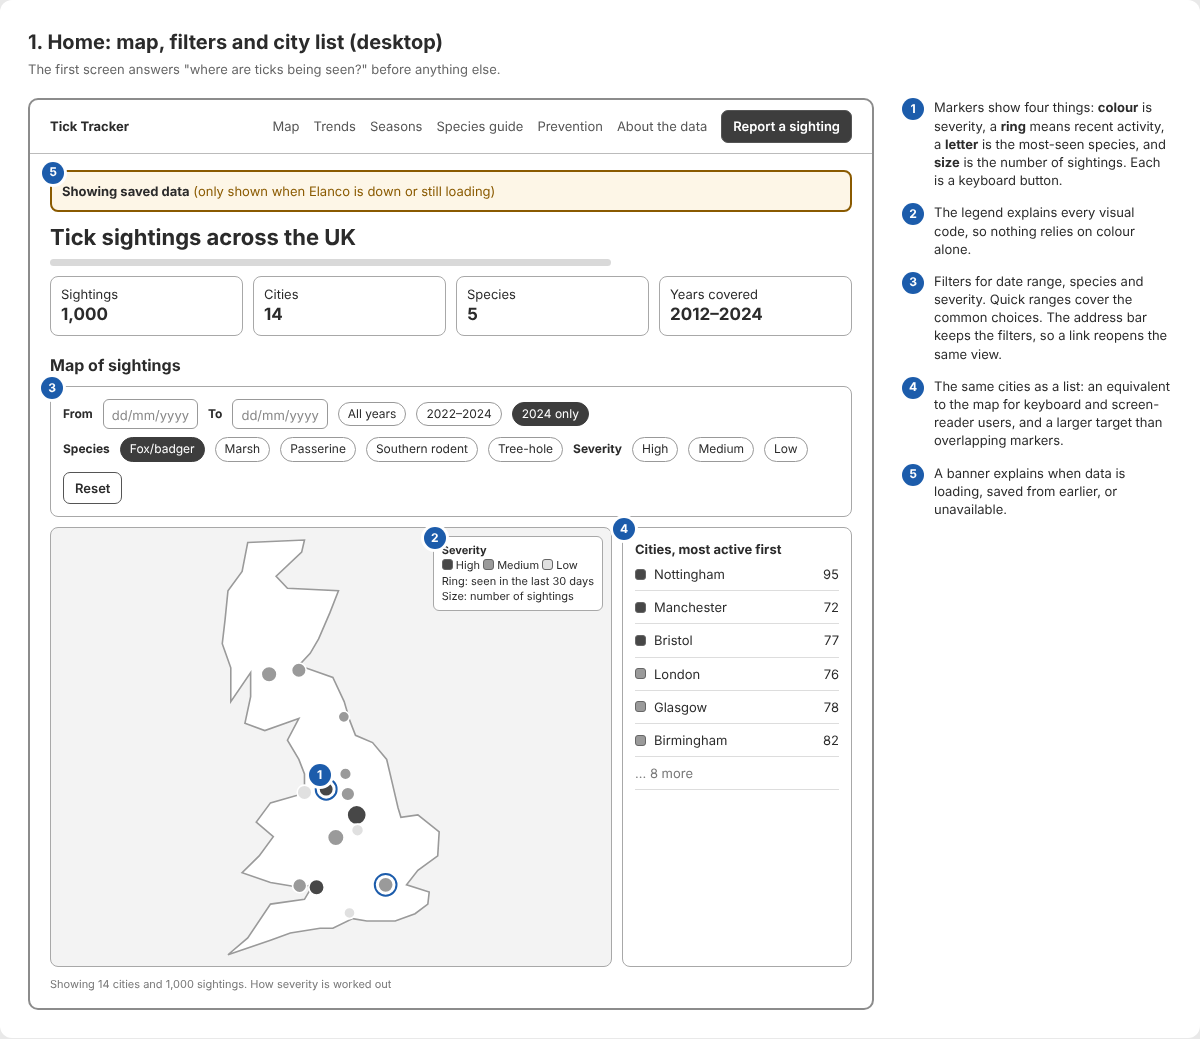
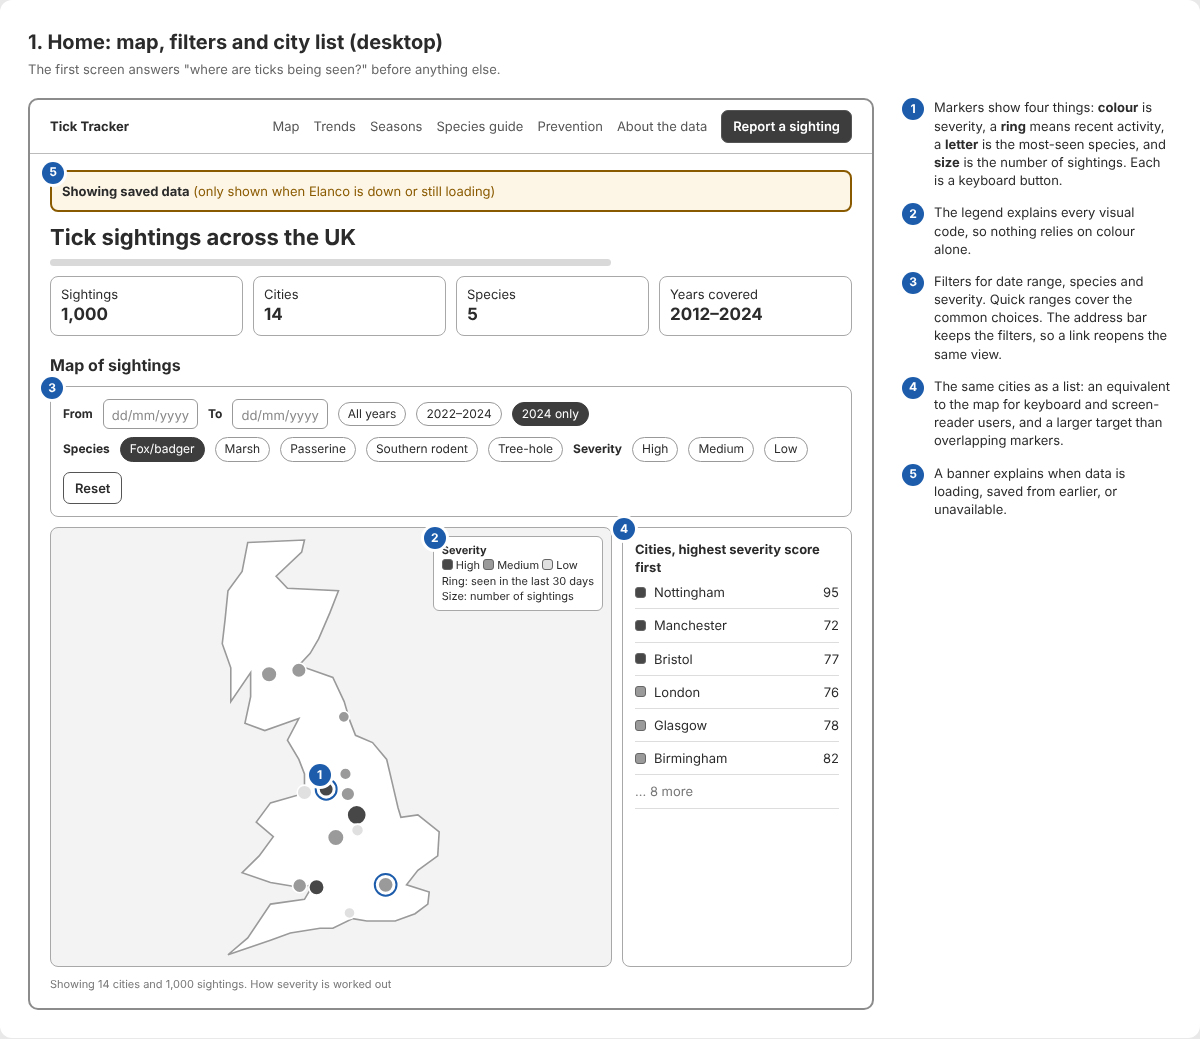
Label the city list by its real order: highest severity score first
The list said "Most recent activity first", but the API sorts cities by
severity score, then by name. The wireframes showed the same label and
are updated to match.

Changed region(s): [[0.5242, 0.5236, 0.6783, 0.77], [0.6783, 0.5544, 0.7092, 0.7392]]

diff --git a/docs/wireframes/wireframes.html b/docs/wireframes/wireframes.html
@@ -441,7 +441,7 @@
               </div>
               <div class="card relative" style="width: 230px">
                 <span class="callout pin" style="left: -10px; top: -10px">4</span>
-                <p class="h3">Cities, most active first</p>
+                <p class="h3">Cities, highest severity score first</p>
                 <div class="city">
                   <span class="swatch high"></span>Nottingham<span class="grow"></span>95
                 </div>
@@ -890,7 +890,9 @@
           </div>
           <div class="screen phone">
             <div class="page stack">
-              <p class="h3 row"><span class="callout">2</span>Cities, most active first</p>
+              <p class="h3 row">
+                <span class="callout">2</span>Cities, highest severity score first
+              </p>
               <div class="city">
                 <span class="swatch high"></span>Nottingham<span class="grow"></span>95
               </div>

diff --git a/web/js/cities/cityList.js b/web/js/cities/cityList.js
@@ -54,7 +54,7 @@ export function renderCityList(container, { locations, selectedCity, onSelect })
       "div",
       { class: "border-b border-line px-4 py-3" },
       h("h3", { class: "font-semibold text-ink" }, `Cities (${locations.length})`),
-      h("p", { class: "text-sm text-ink-muted" }, "Most recent activity first"),
+      h("p", { class: "text-sm text-ink-muted" }, "Highest severity score first"),
     ),
     h(
       "ul",
